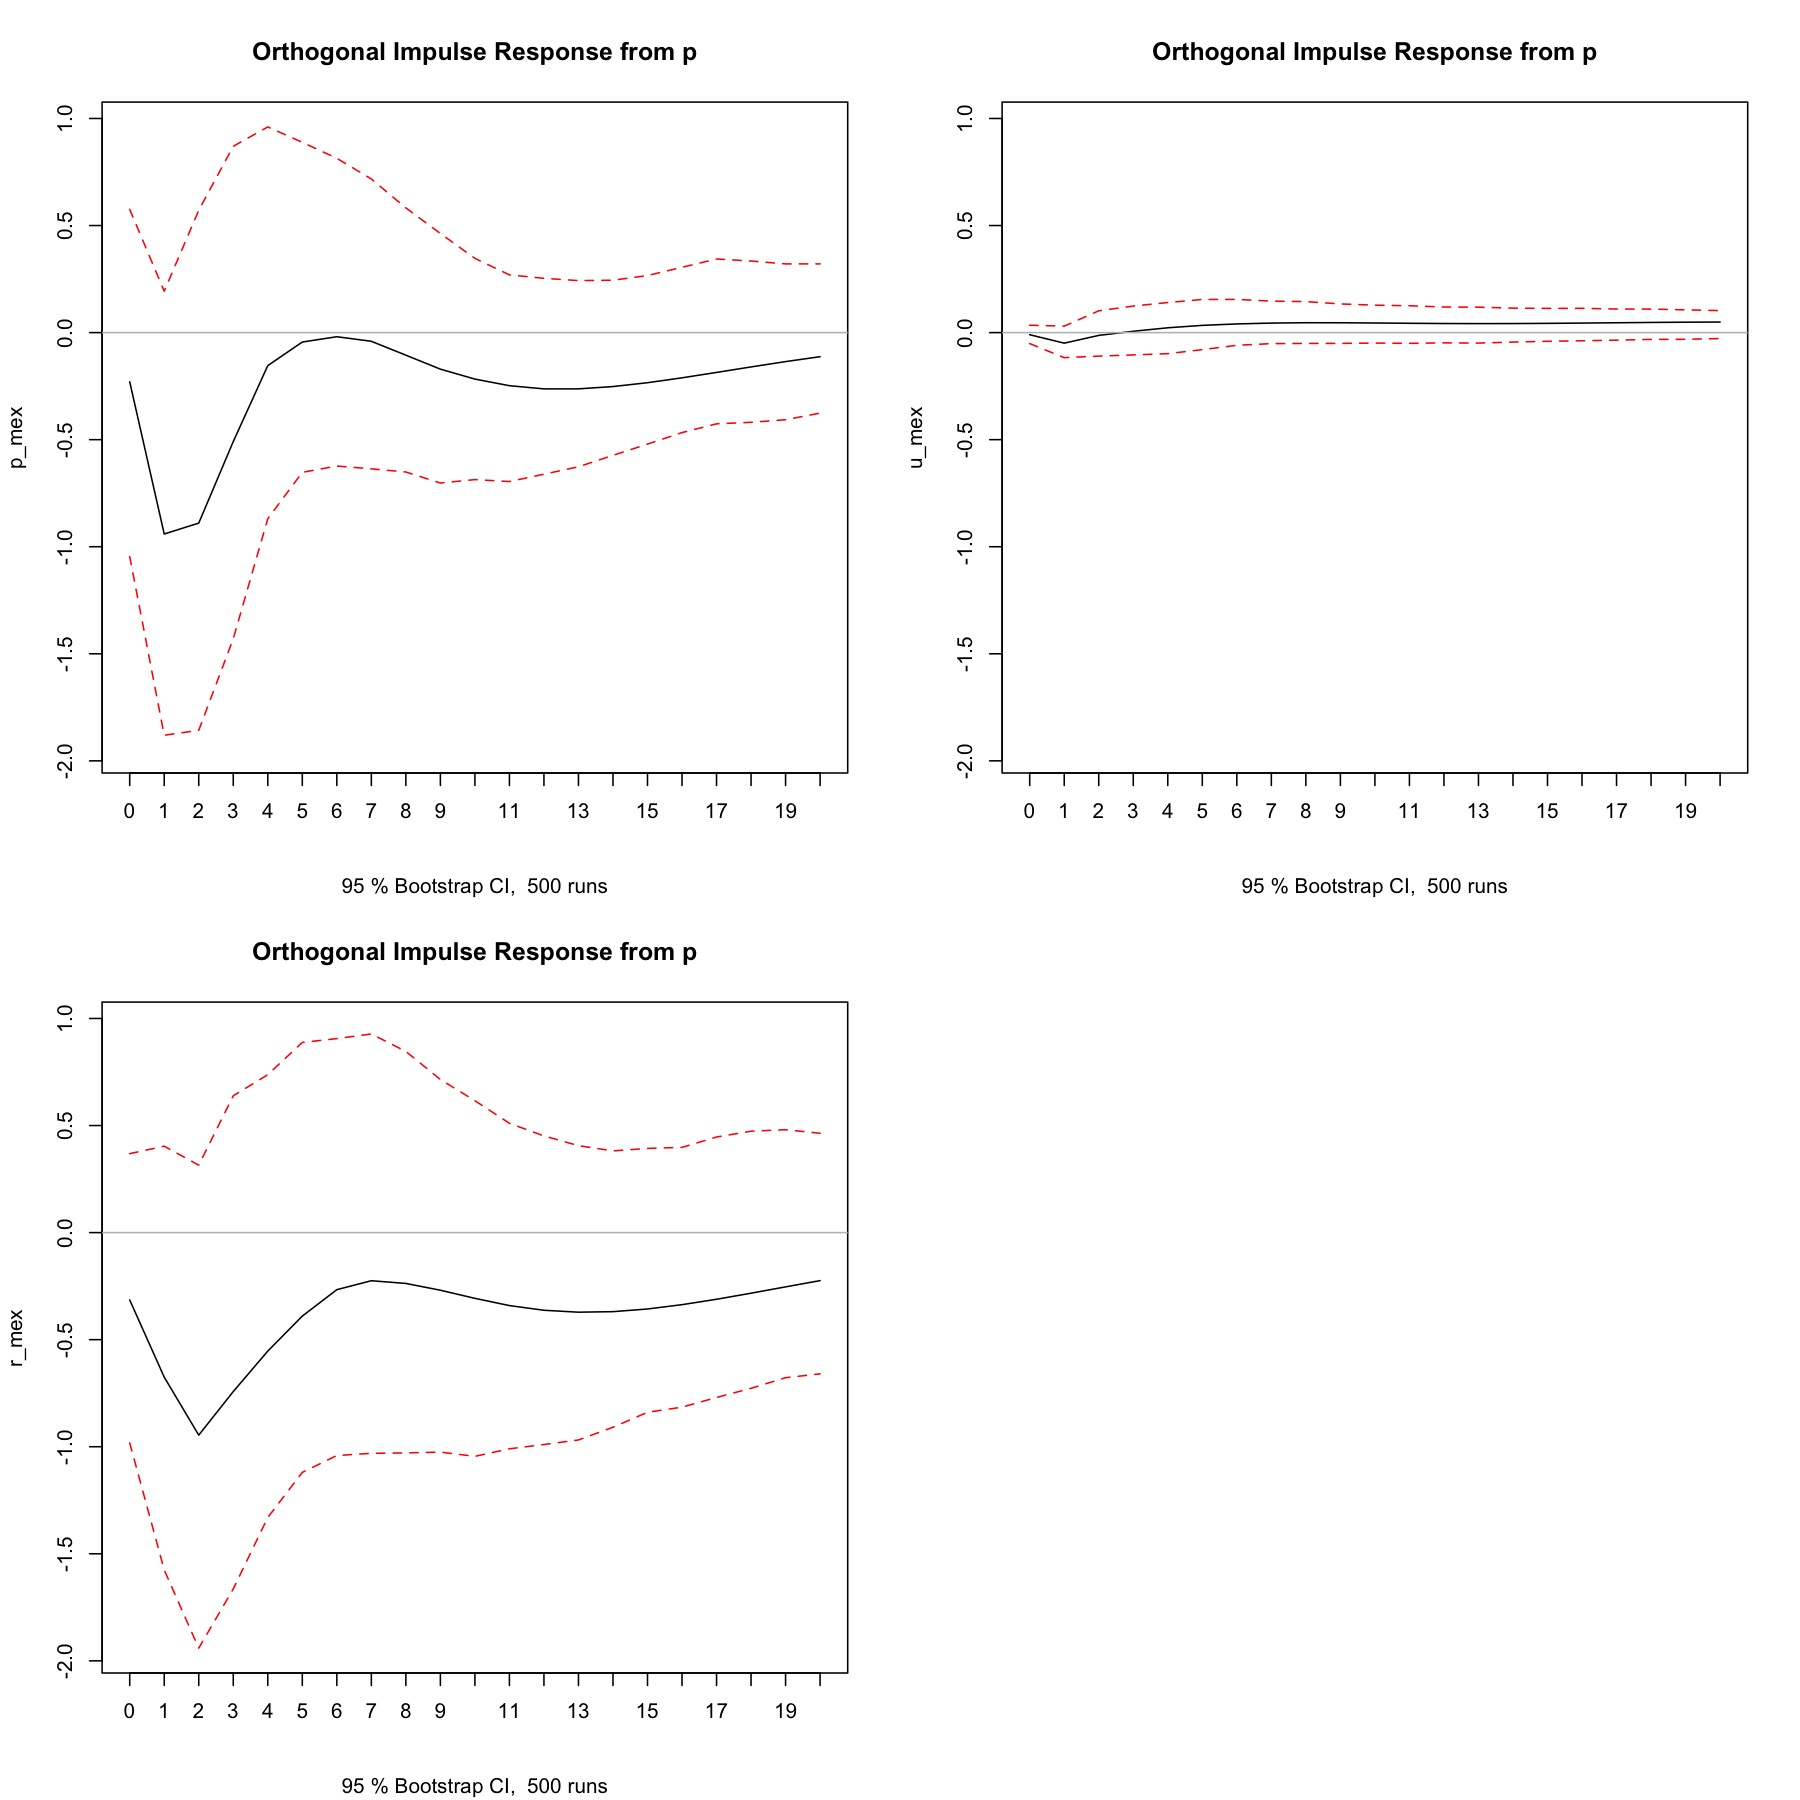
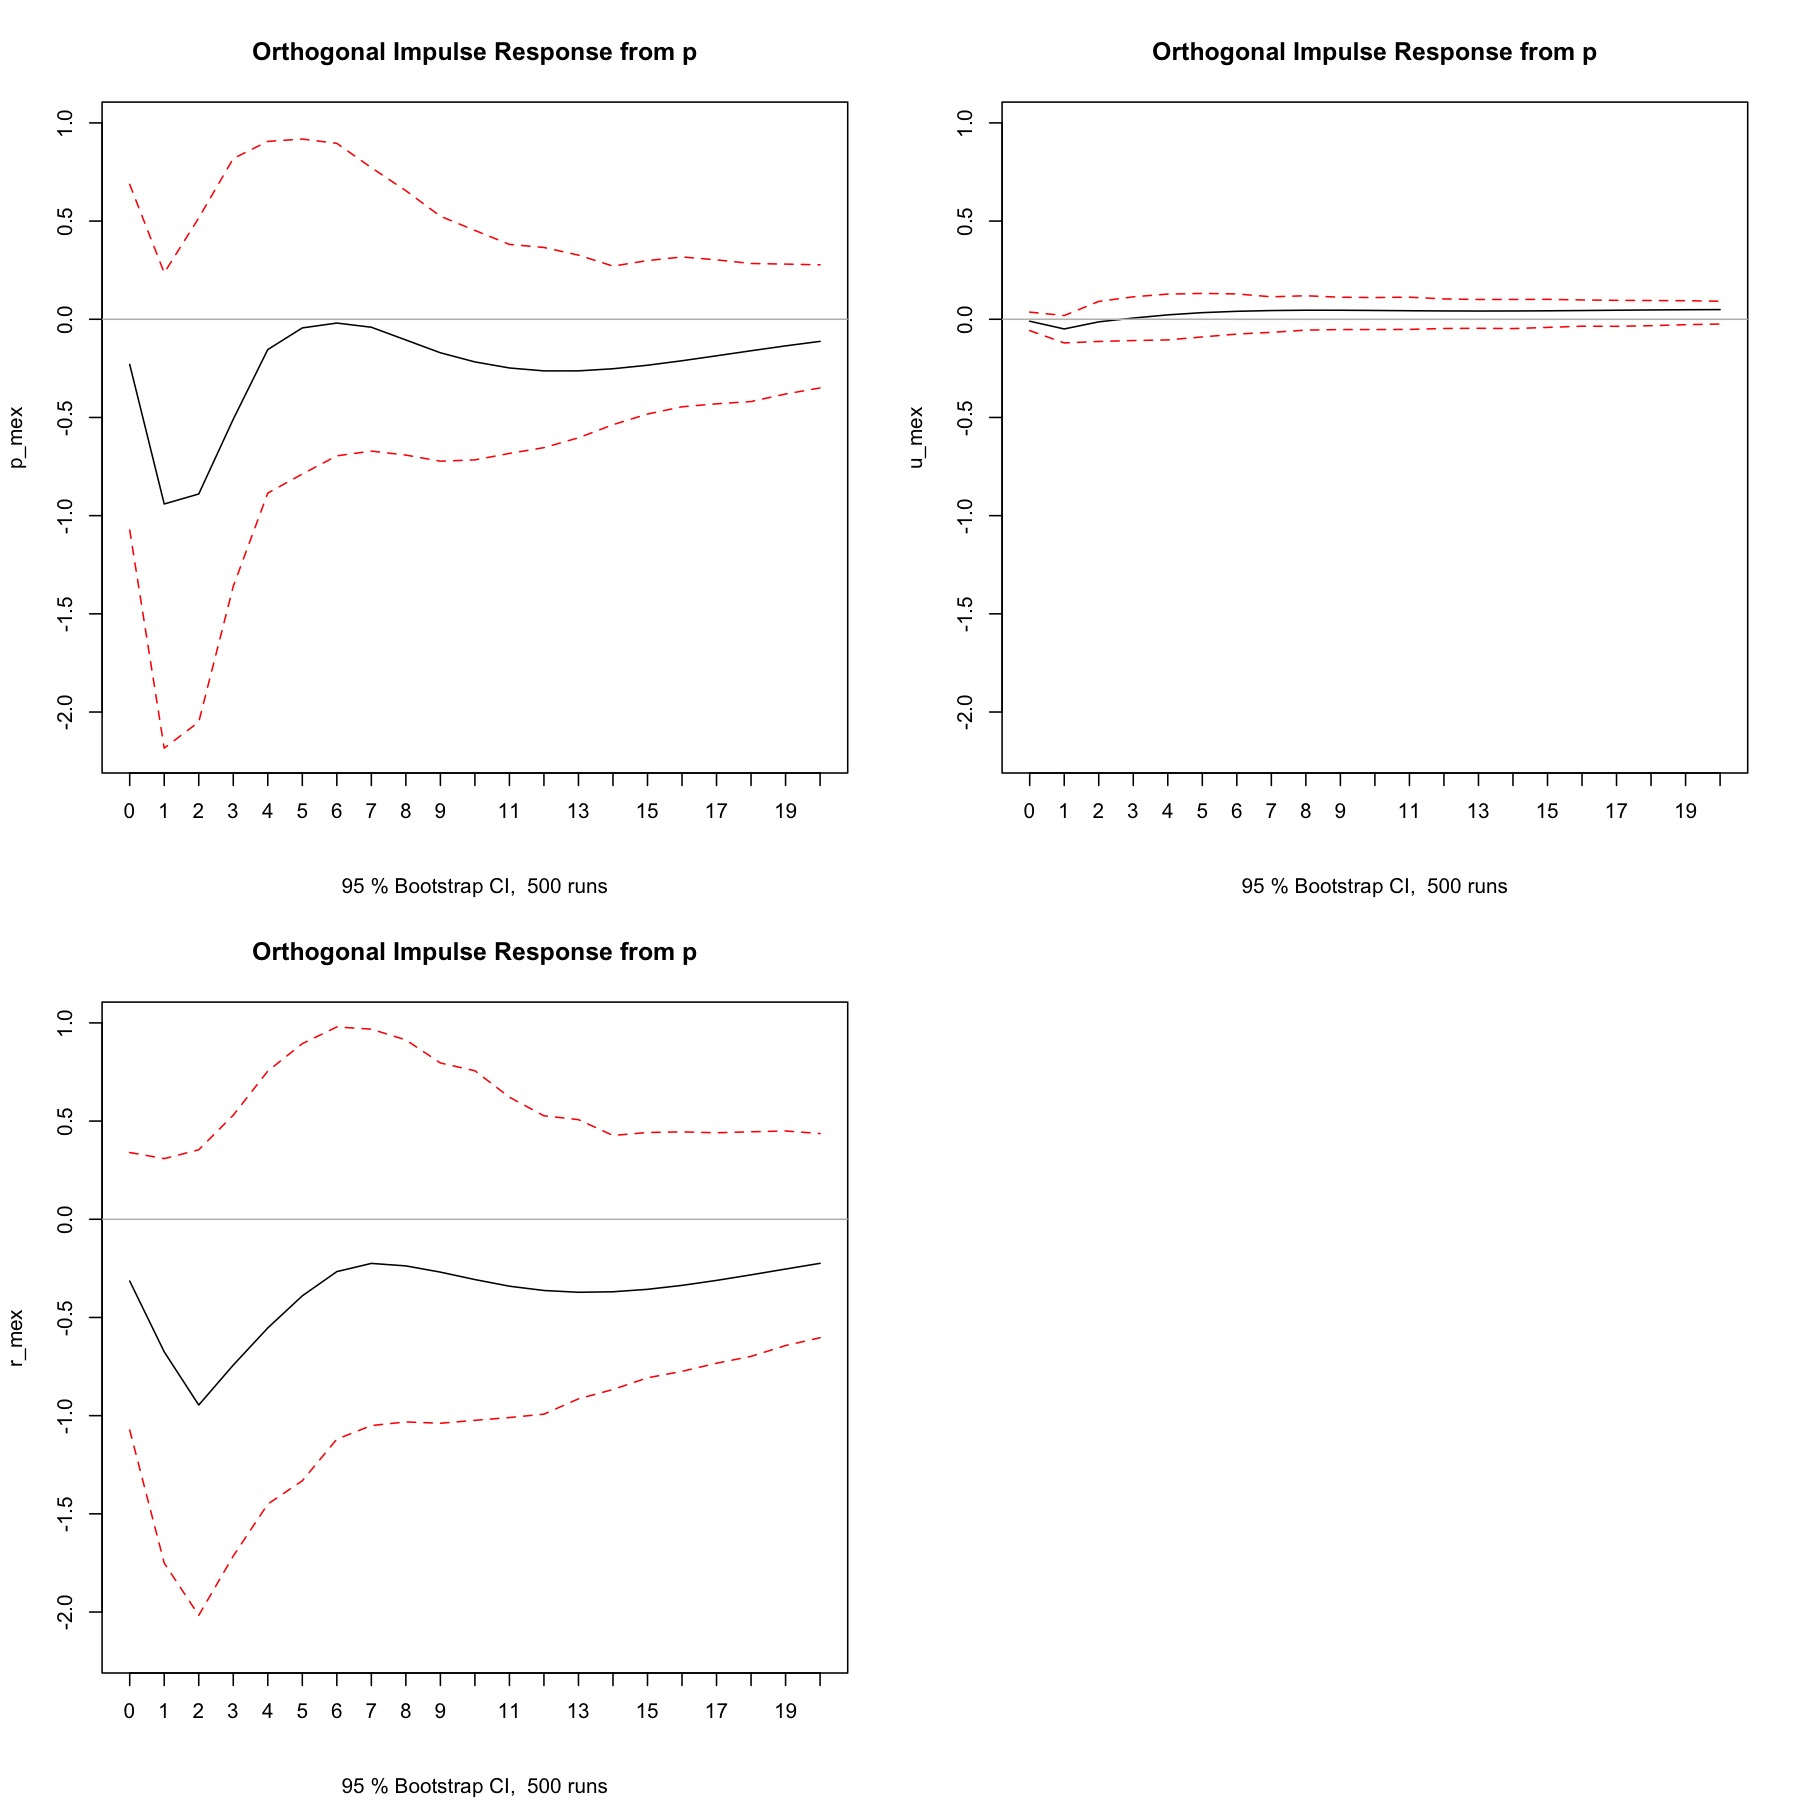
try to see if the model if robust to different orderings

diff --git a/Replication/Figures/Preliminaries/LaTeX/diagnostics_1.tex b/Replication/Figures/Preliminaries/LaTeX/diagnostics_1.tex
@@ -1,6 +1,6 @@
 
 % Table created by stargazer v.5.2.3 by Marek Hlavac, Social Policy Institute. E-mail: marek.hlavac at gmail.com
-% Date and time: Tue, May 26, 2026 - 16:03:33
+% Date and time: Tue, May 26, 2026 - 23:15:49
 \begin{table}[!htbp] \centering 
   \caption{Residual Diagnostics} 
   \label{tab:diagnostics_1} 

diff --git a/Replication/Figures/Preliminaries/LaTeX/lag_selection_1.tex b/Replication/Figures/Preliminaries/LaTeX/lag_selection_1.tex
@@ -1,6 +1,6 @@
 
 % Table created by stargazer v.5.2.3 by Marek Hlavac, Social Policy Institute. E-mail: marek.hlavac at gmail.com
-% Date and time: Tue, May 26, 2026 - 16:03:33
+% Date and time: Tue, May 26, 2026 - 23:15:49
 \begin{table}[!htbp] \centering 
   \caption{VAR Lag Order Selection} 
   \label{tab:lag_selection_1} 

diff --git a/Replication/Figures/Preliminaries/LaTeX/roots_1.tex b/Replication/Figures/Preliminaries/LaTeX/roots_1.tex
@@ -1,6 +1,6 @@
 
 % Table created by stargazer v.5.2.3 by Marek Hlavac, Social Policy Institute. E-mail: marek.hlavac at gmail.com
-% Date and time: Tue, May 26, 2026 - 16:03:33
+% Date and time: Tue, May 26, 2026 - 23:15:49
 \begin{table}[!htbp] \centering 
   \caption{VAR Stability Roots} 
   \label{tab:roots_1} 

diff --git a/Replication/Figures/Preliminaries/LaTeX/stationarity_1.tex b/Replication/Figures/Preliminaries/LaTeX/stationarity_1.tex
@@ -1,6 +1,6 @@
 
 % Table created by stargazer v.5.2.3 by Marek Hlavac, Social Policy Institute. E-mail: marek.hlavac at gmail.com
-% Date and time: Tue, May 26, 2026 - 16:03:33
+% Date and time: Tue, May 26, 2026 - 23:15:48
 \begin{table}[!htbp] \centering 
   \caption{Stationarity Tests} 
   \label{tab:stationarity_1} 